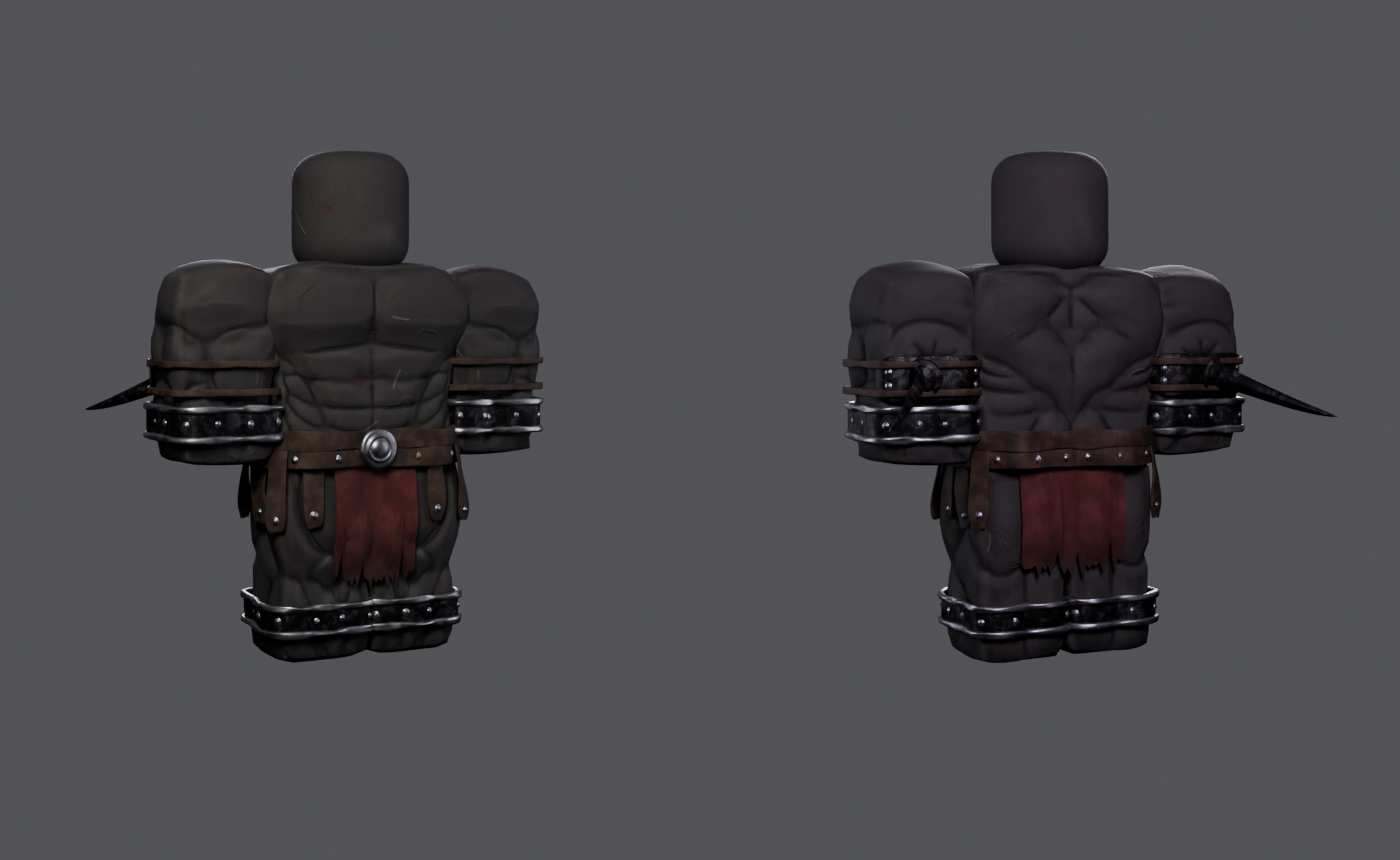
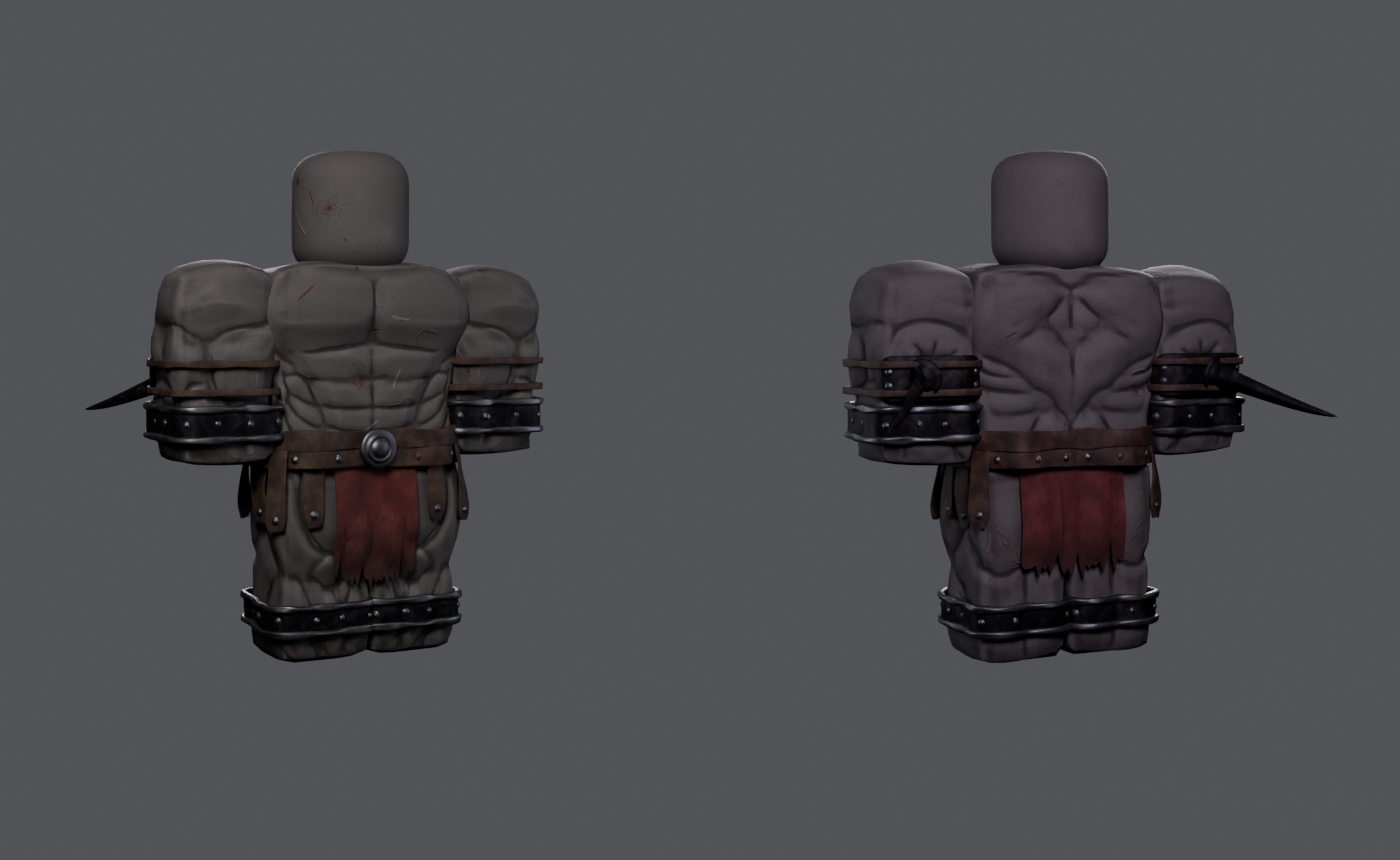
Brute: lighter ashen skin, darker metal
The skin is a lighter ashen grey; the metal darker and rougher: the silver a
gunmetal grey rubbed only a little brighter on its edges, the iron's worn
edges and scratches duller, so nothing glares.

Claude-Session: https://claude.ai/code/session_01LZ1GMCreuNYnj8cdxoJtqW

diff --git a/brute/build_brute.py b/brute/build_brute.py
@@ -28,7 +28,7 @@ MATS = A.MATS
 # the body's parts as exported from Studio, and the normal map each uses (matched by UV layout)
 PARTS = {'Torso1': ('Torso', 'normal_torso'), 'ArmL1': ('LeftArm', 'normal_a'), 'ArmR1': ('RightArm', 'normal_a'),
          'LegL1': ('LeftLeg', 'normal_b'), 'LegR1': ('RightLeg', 'normal_b')}
-SKIN = dict(base='#353231', crease='#121110', ridge='#5a5452', warm='#3b3431')   # dark charcoal
+SKIN = dict(base='#4c4846', crease='#1b1918', ridge='#7b7471', warm='#544a46')   # ashen grey
 
 
 # ------------------------------------------------------------------ the body
@@ -796,25 +796,25 @@ def worn_material(name, kind):
         col = mix(rng(noise(12, 4), 0.3, 0.7, 0, 0.3), lin('#222224'), lin('#333236'))
         col = mix(rust, col, mix(rng(noise(30, 3), 0.4, 0.6), lin('#3e1d0f'), lin('#6e3416')))
         col = mix(op('MULTIPLY', grime, 0.75), col, lin('#100e0d'))
-        col = mix(op('MULTIPLY', edge, 0.8), col, lin('#8e8c88'))
-        col = mix(op('MULTIPLY', scratch, 0.8), col, lin('#9c9a96'))
+        col = mix(op('MULTIPLY', edge, 0.6), col, lin('#5c5a57'))
+        col = mix(op('MULTIPLY', scratch, 0.5), col, lin('#64625f'))
         col = mix(op('MULTIPLY', pits, 0.55), col, lin('#120f0e'))
         col = mix(op('MULTIPLY', blood, 0.8), col, lin('#2a0805'))
-        rough = op('ADD', 0.55, op('ADD', op('MULTIPLY', rust, 0.4), op('MULTIPLY', op('ADD', edge, scratch), -0.2)))
+        rough = op('ADD', 0.62, op('ADD', op('MULTIPLY', rust, 0.35), op('MULTIPLY', op('ADD', edge, scratch), -0.12)))
         metal = op('SUBTRACT', 1.0, op('MULTIPLY', op('MAXIMUM', rust, grime), 0.85))
         height = op('ADD', op('MULTIPLY', pits, -0.6), op('ADD', op('MULTIPLY', noise(25, 6), 0.3),
                                                           op('MULTIPLY', scratch, -0.5)))
     elif kind == 'silver':
         tarnish = op('MAXIMUM', op('MULTIPLY', crev, 1.0), op('MULTIPLY', blot, 0.6))
         film = rng(noise(5, 5), 0.5, 0.66)                                           # a dull yellowish film
-        col = mix(rng(noise(10, 4), 0.3, 0.7, 0, 0.4), lin('#8d8d90'), lin('#a3a3a6'))
+        col = mix(rng(noise(10, 4), 0.3, 0.7, 0, 0.4), lin('#5a5a5d'), lin('#69696c'))
         col = mix(op('MULTIPLY', film, 0.4), col, lin('#6e6656'))
         col = mix(tarnish, col, lin('#1c1b1d'))
         col = mix(op('MULTIPLY', grime, 0.6), col, lin('#0e0d0c'))
-        col = mix(op('MULTIPLY', edge, 0.9), col, lin('#d8d8da'))
-        col = mix(op('MULTIPLY', scratch, 0.7), col, lin('#e0e0e2'))
+        col = mix(op('MULTIPLY', edge, 0.7), col, lin('#9a9a9d'))
+        col = mix(op('MULTIPLY', scratch, 0.45), col, lin('#8e8e91'))
         col = mix(op('MULTIPLY', blood, 0.7), col, lin('#2a0805'))
-        rough = op('ADD', 0.34, op('ADD', op('MULTIPLY', tarnish, 0.4), op('MULTIPLY', op('ADD', edge, scratch), -0.15)))
+        rough = op('ADD', 0.46, op('ADD', op('MULTIPLY', tarnish, 0.35), op('MULTIPLY', op('ADD', edge, scratch), -0.1)))
         metal = op('SUBTRACT', 1.0, op('MULTIPLY', op('MAXIMUM', tarnish, grime), 0.5))
         height = op('ADD', op('MULTIPLY', noise(30, 6), 0.35), op('ADD', op('MULTIPLY', rng(vor(60), 0.0, 0.2, 1.0, 0.0), -0.3),
                                                                      op('MULTIPLY', scratch, -0.5)))
